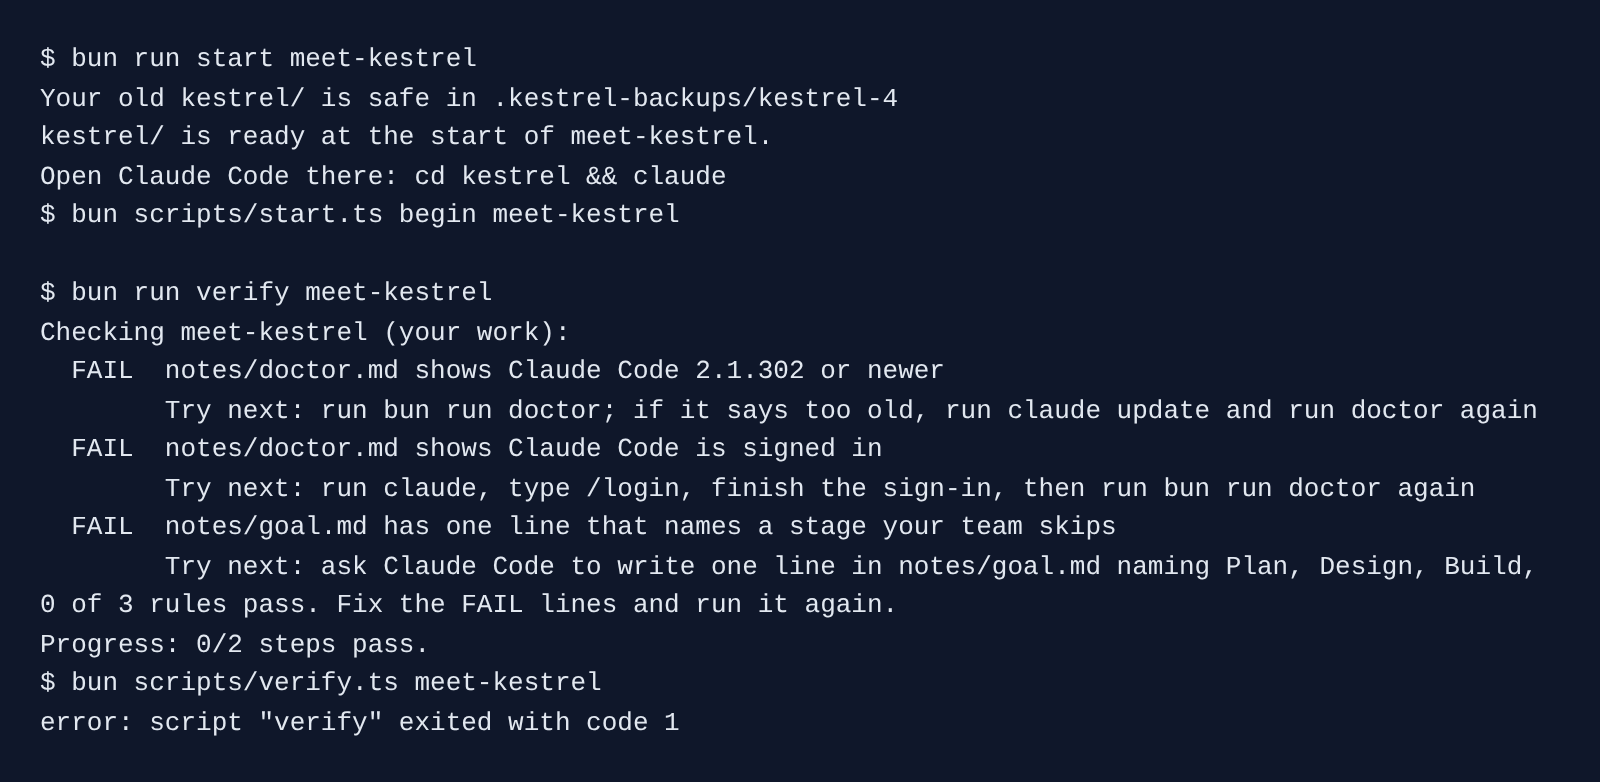
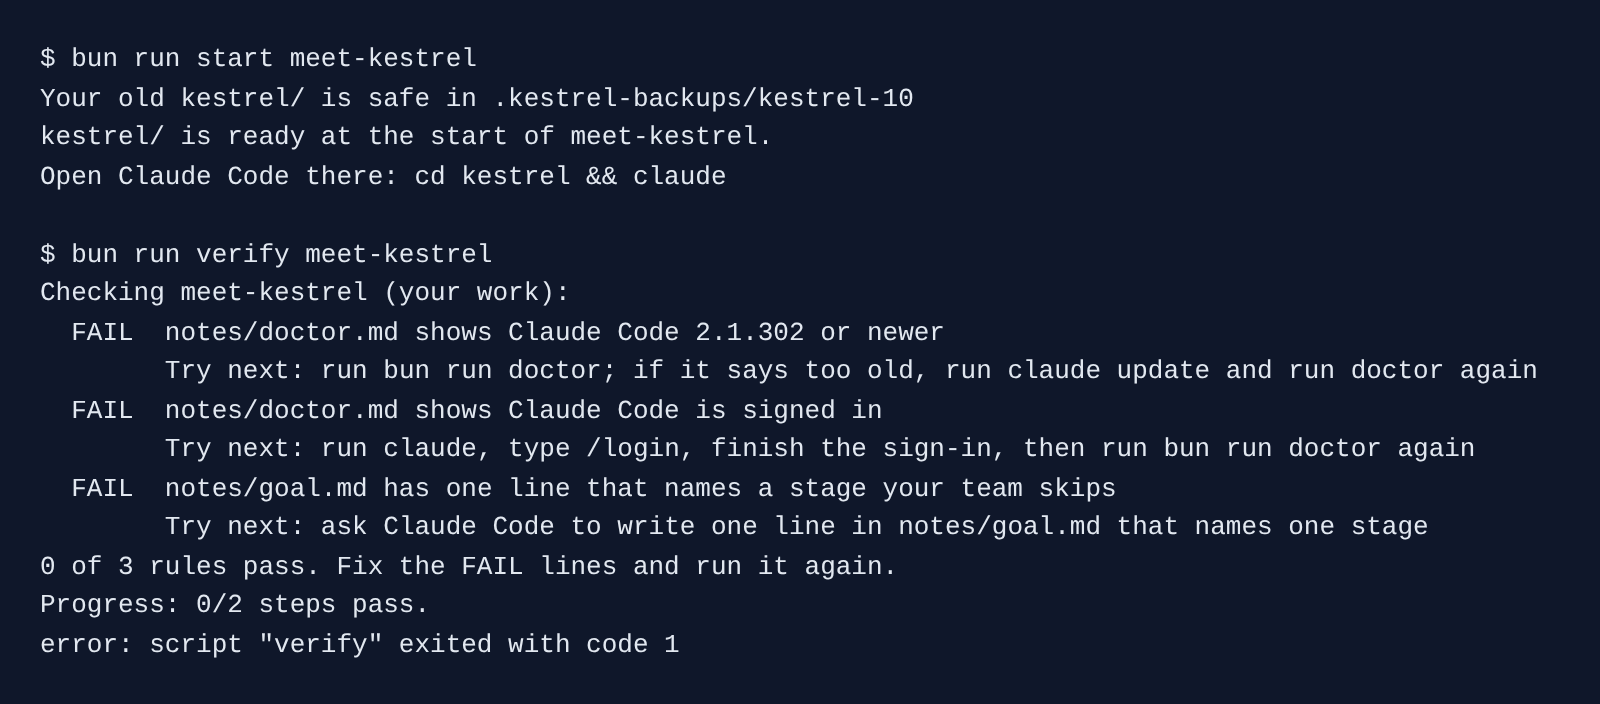
Snapshots carry the step before: ready-the-repo starts with meet-kestrel's notes
Pictures retaken from the real commands.

diff --git a/scripts/shots.ts b/scripts/shots.ts
@@ -23,7 +23,9 @@ function runForPicture(command: string): string {
   const environment = { ...process.env, CI: "true" };
   const result = Bun.spawnSync(words, { cwd: ROOT, env: environment, stderr: "pipe" });
   const output = result.stdout.toString() + result.stderr.toString();
-  const shortLines = output.split("\n").map((line) => line.slice(0, 96));
+  // bun echoes each script it starts, as "$ bun ...". The picture shows the command once.
+  const outputLines = output.split("\n").filter((line) => !line.startsWith("$ bun "));
+  const shortLines = outputLines.map((line) => line.slice(0, 96));
   return `$ ${command}\n${shortLines.join("\n").trim()}`;
 }
 

diff --git a/parts/01-ready-the-repo/ready-the-repo/problem/notes/goal.md b/parts/01-ready-the-repo/ready-the-repo/problem/notes/goal.md
@@ -1,0 +1,1 @@
+My team skips the Review stage today: we merge Claude's pull requests after a quick look.

diff --git a/parts/01-ready-the-repo/ready-the-repo/solution/notes/goal.md b/parts/01-ready-the-repo/ready-the-repo/solution/notes/goal.md
@@ -1,0 +1,1 @@
+My team skips the Review stage today: we merge Claude's pull requests after a quick look.

diff --git a/parts/01-ready-the-repo/ready-the-repo/wrong/no-deny-rule/notes/goal.md b/parts/01-ready-the-repo/ready-the-repo/wrong/no-deny-rule/notes/goal.md
@@ -1,0 +1,1 @@
+My team skips the Review stage today: we merge Claude's pull requests after a quick look.

diff --git a/parts/01-ready-the-repo/ready-the-repo/wrong/wall-of-rules/notes/goal.md b/parts/01-ready-the-repo/ready-the-repo/wrong/wall-of-rules/notes/goal.md
@@ -1,0 +1,1 @@
+My team skips the Review stage today: we merge Claude's pull requests after a quick look.

diff --git a/parts/01-ready-the-repo/ready-the-repo/problem/notes/doctor.md b/parts/01-ready-the-repo/ready-the-repo/problem/notes/doctor.md
@@ -1,0 +1,6 @@
+# Doctor
+
+Claude Code: 2.1.323
+Signed in: yes
+Bun: 1.4.4
+World: ready

diff --git a/parts/01-ready-the-repo/ready-the-repo/solution/notes/doctor.md b/parts/01-ready-the-repo/ready-the-repo/solution/notes/doctor.md
@@ -1,0 +1,6 @@
+# Doctor
+
+Claude Code: 2.1.323
+Signed in: yes
+Bun: 1.4.4
+World: ready

diff --git a/parts/01-ready-the-repo/ready-the-repo/wrong/no-deny-rule/notes/doctor.md b/parts/01-ready-the-repo/ready-the-repo/wrong/no-deny-rule/notes/doctor.md
@@ -1,0 +1,6 @@
+# Doctor
+
+Claude Code: 2.1.323
+Signed in: yes
+Bun: 1.4.4
+World: ready

diff --git a/parts/01-ready-the-repo/ready-the-repo/wrong/wall-of-rules/notes/doctor.md b/parts/01-ready-the-repo/ready-the-repo/wrong/wall-of-rules/notes/doctor.md
@@ -1,0 +1,6 @@
+# Doctor
+
+Claude Code: 2.1.323
+Signed in: yes
+Bun: 1.4.4
+World: ready
